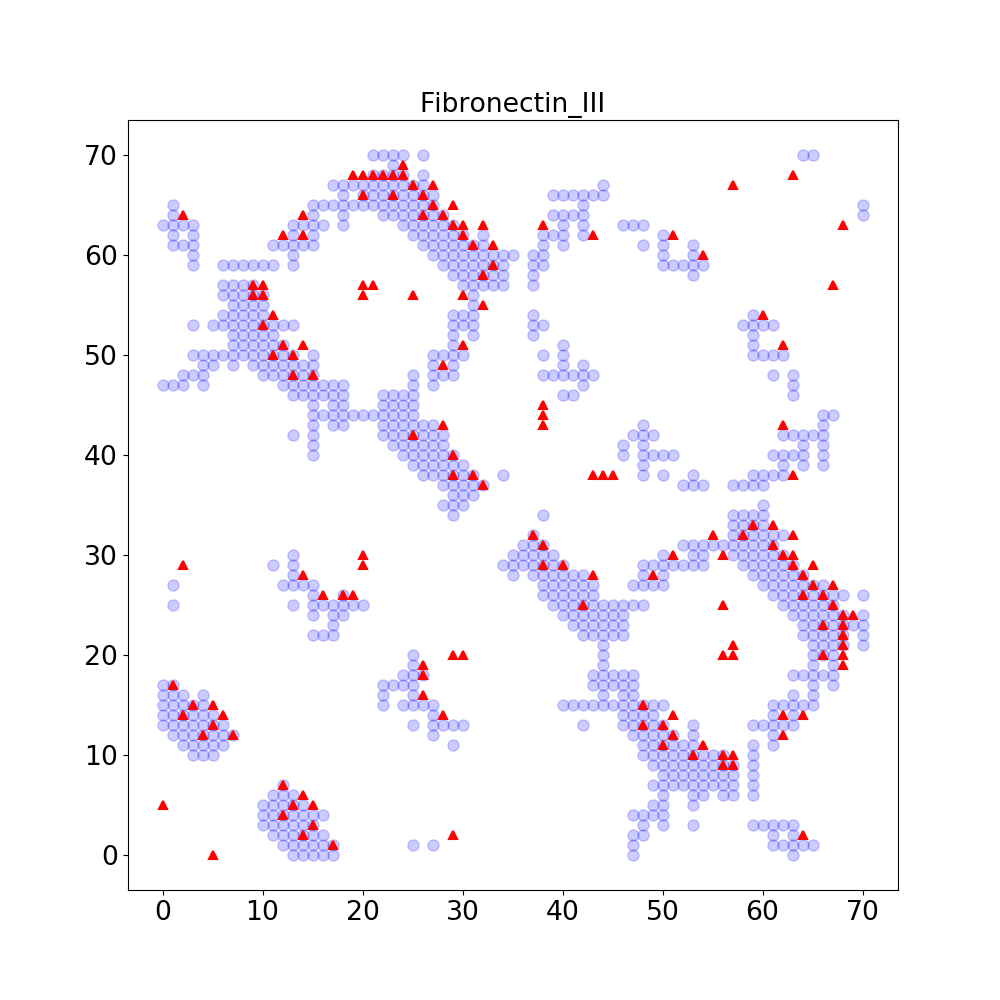
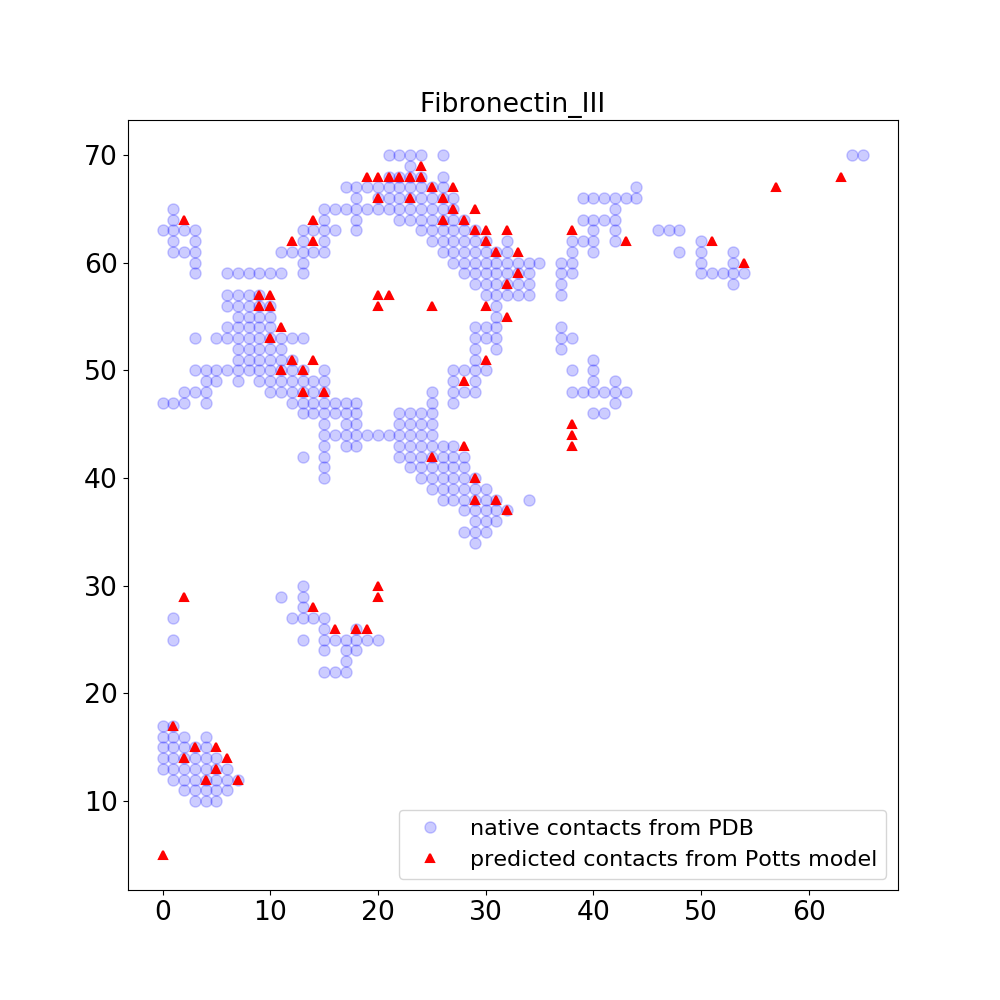
change contact_both to be upper triangle

diff --git a/script/calc_score.py b/script/calc_score.py
@@ -57,6 +57,10 @@ tmp = np.copy(score_CN).reshape([-1])
 tmp.sort()
 cutoff = tmp[-args.N*2]
 contact_plm = score_CN > cutoff
+for j in range(contact_plm.shape[0]):
+    for i in range(j, contact_plm.shape[1]):
+        contact_plm[i,j] = False
+
 
 ######################################################################
 #### Contact Maps from PDB Structure ######
@@ -90,21 +94,25 @@ for i in range(contact_pdb.shape[0]):
 f = open("./pfam_msa/seq_pos_idx.pkl", 'rb')
 position_idx = np.array(pickle.load(f))
 f.close()
-
 contact_pdb = contact_pdb[position_idx + offset,:][:,position_idx + offset]
+
+for j in range(contact_pdb.shape[0]):
+    for i in range(j, contact_pdb.shape[1]):
+        contact_pdb[i,j] = False
 
 ##### Plot contacts from both #####
 fig = plt.figure(figsize = (10,10))
 fig.clf()
 I,J = np.where(contact_pdb)
-plt.plot(I,J, 'bo', alpha = 0.2, markersize = 8)
+plt.plot(I,J, 'bo', alpha = 0.2, markersize = 8, label = 'native contacts from PDB')
 plt.axes().set_aspect('equal')
 #plt.imshow(contact_pdb, cmap = "binary", alpha = 0.5)
 I,J = np.where(contact_plm)
-plt.plot(I,J, 'r^', markersize = 6, mew = 1.5)
+plt.plot(I,J, 'r^', markersize = 6, mew = 1.5, label = 'predicted contacts from Potts model')
 # plt.xlim((0,153))
 # plt.ylim((0,153))
 plt.title(protein)
+plt.legend()
 subprocess.run(['mkdir', '-p', 'output'])
 plt.savefig("./output/contact_both.png")
 plt.show()
